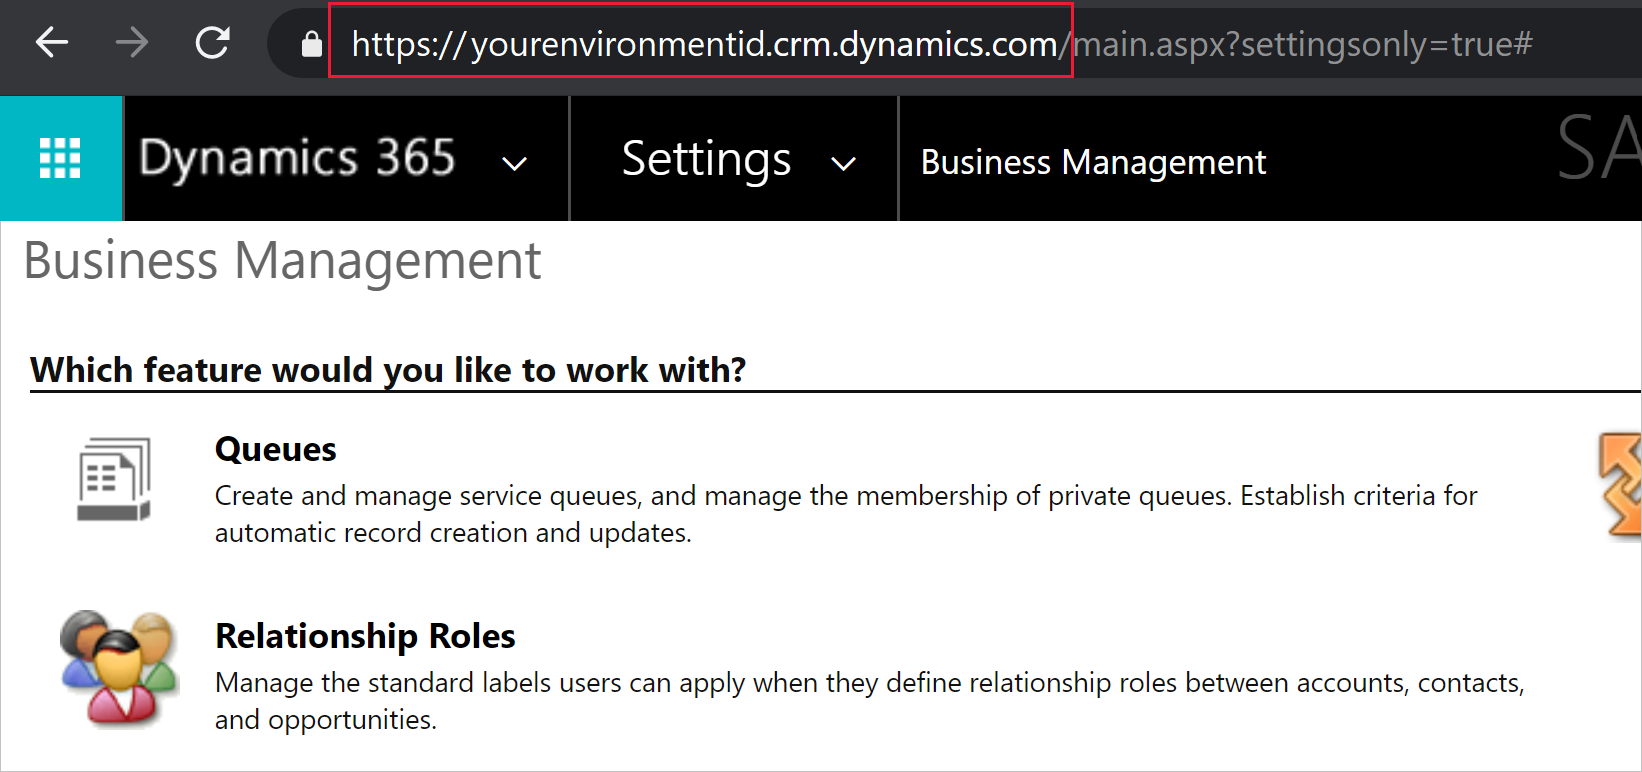
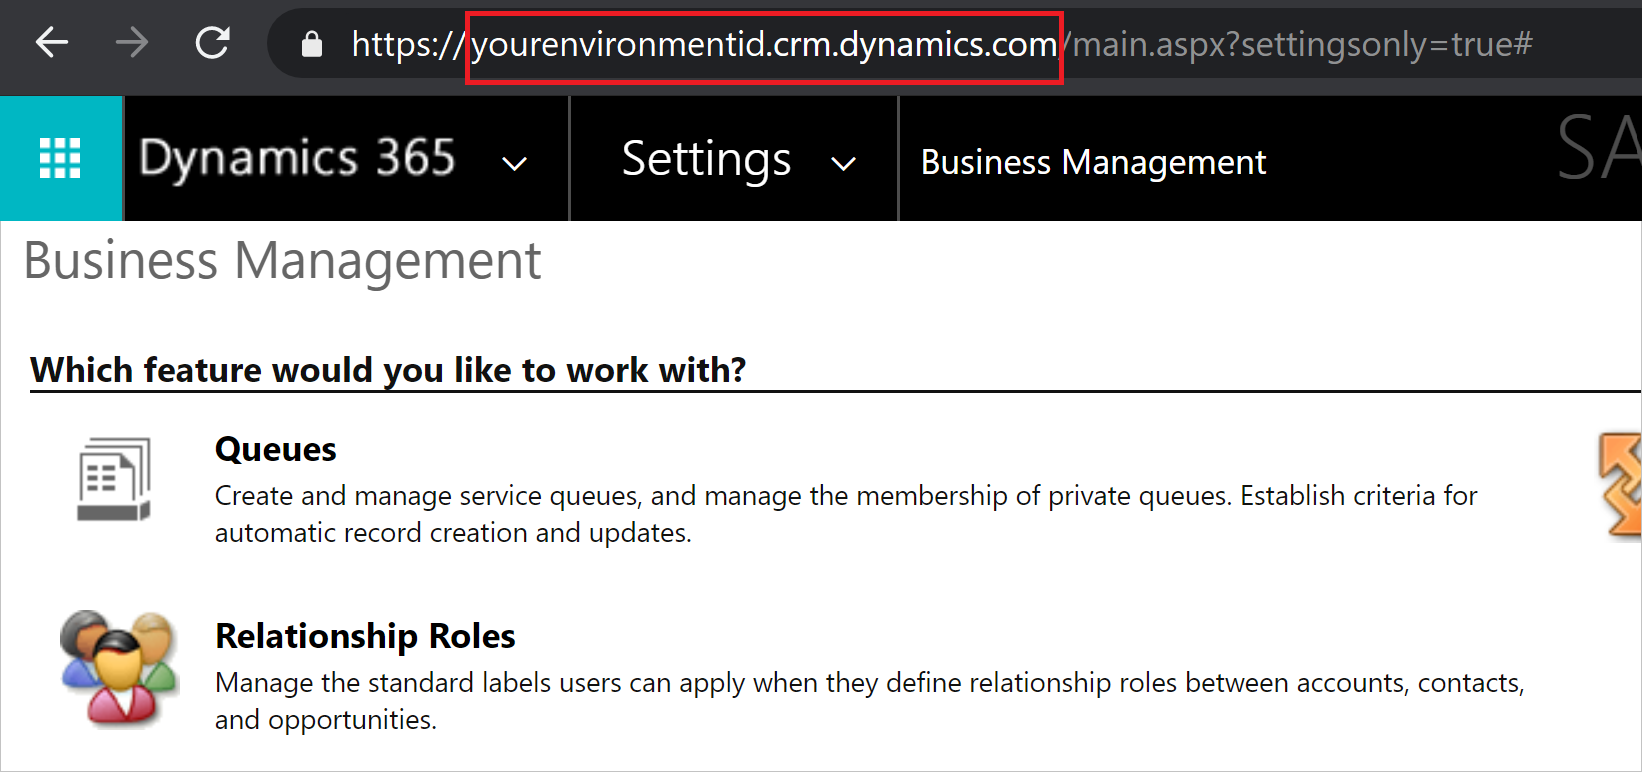
Updates to Dataverse connector article

Changed region(s): [[0.1864, 0.0, 0.6523, 0.0311], [0.2174, 0.0933, 0.6523, 0.1244]]

diff --git a/powerquery-docs/Connectors/Dataverse.md b/powerquery-docs/Connectors/Dataverse.md
@@ -24,20 +24,22 @@ LocalizationGroup: reference
 
 You must have a Dataverse environment with maker permissions to access the portal, and read permissions to access data within tables.
 
-You'll also need ports 1433 and 5558 to be open in Dataverse for the connector to successfully establish a connection. For more information, go to [SQL Server connection issue due to closed ports](#sql-server-connection-issue-due-to-closed-ports). 
+To use the Dataverse connector, the **TDS endpoint** setting must be enabled in your environment. More information: [Manage feature settings](/power-platform/admin/settings-features).
+
+To use the Dataverse connector, TCP ports 1433 and/or 5558 need to be open to connect. If only port 5558 is enabled, you must append that port number to the Dataverse environment URL, such as *yourenvironmentid.crm.dynamics.com:5558*. More information: [SQL Server connection issue due to closed ports](#sql-server-connection-issue-due-to-closed-ports)
 
 ## Capabilities supported
 
 * Server URL
 * Advanced
-   * Reorder columns
-   * Add display column
+  * Reorder columns
+  * Add display column
 
-## Finding your Dataverse Environment URL
+## Finding your Dataverse environment URL
 
 Open [Power Apps](https://make.powerapps.com/?utm_source=padocs&utm_medium=linkinadoc&utm_campaign=referralsfromdoc). In the upper right of the Power Apps page, select the environment you're going to connect to. Select the ![Settings icon.](media/common-data-service/settings-icon.png) settings icon, and then select **Advanced settings**.
 
-In the new browser tab that opens, copy the root of the URL. This root URL is the unique URL for your environment. The URL will be in the format of https://\<*yourenvironmentid*>.crm.dynamics.com/. Make sure not to copy the rest of the URL. Keep this URL somewhere handy so you can use it later, for example, when you create Power BI reports.
+In the new browser tab that opens, copy the root of the URL. This root URL is the unique URL for your environment. The URL will be in the format of https://\<*yourenvironmentid*>.crm.dynamics.com/. **Make sure you remove https:// and the trailing / from the URL before pasting it to connect to your environment.** Keep this URL somewhere handy so you can use it later, for example, when you create Power BI reports.
 
 ![Location of the Dataverse environment URL.](media/common-data-service/cds-env.png)
 
@@ -54,21 +56,22 @@ To connect to Dataverse from Power BI Desktop:
 
    ![Get data in Power BI Desktop.](media/common-data-service/get-data.png)
 
-3. Enter the server URL address of the data you want to load.
+3. Enter the Dataverse environment URL of the data you want to load. Use the format *\<yourenvironmentid>.crm.dynamics.com*. Be sure to remove the `https://` prefix and `/` suffix from the URL before entering the name in **Environment domain**. More information: [Finding your Dataverse environment URL](#finding-your-dataverse-environment-url)
 
    ![Server URL selection.](media/common-data-service/enter-url.png)
 
-   When the table is loaded in the Navigator dialog box, by default the columns in the table are reordered in alphabetical order by the column names. If you don't want the columns reordered, in the advanced settings enter **false** in **Reorder columns**.
+4. Select one of the following Data Connectivity mode options:
 
-   Also when the table is loaded, by default if the table contains any picklist fields, a new column with the name of the picklist field with **_display** appended at the end of the name is added to the table. If you don't want the picklist field display column added, in the advanced settings enter **false** in **Add display column**.
+   * **Import**: We recommend that you import data to Power BI wherever possible. With this mode, data is cached in the Power BI service and imported on a scheduled interval.
+   * **DirectQuery**: Connects directly to the data in Dataverse. Use this mode for real-time data retrieval. This mode can also more strictly enforce the Dataverse security model. More information: DirectQuery model guidance in Power BI Desktop.
 
    When you've finished filling in the information, select **OK**.
 
-4. If this attempt is the first time you're connecting to this site, select **Sign in** and input your credentials. Then select **Connect**.
+5. If this attempt is the first time you're connecting to this site, select **Sign in** and input your credentials. Then select **Connect**.
 
    ![Sign in to this site.](media/common-data-service/sign-in.png)
 
-5. In **Navigator**, select the data you require, then either load or transform the data.
+6. In **Navigator**, select the data you require, then either load or transform the data.
 
    ![Load or transform from navigator.](media/common-data-service/navigator.png)
 
@@ -93,6 +96,18 @@ To connect to Dataverse from Power Query Online:
 6. In the navigation page, select the data you require, and then select **Transform Data**.
 
 ## Limitations and issues
+
+### When to use the Common Data Service (Legacy) connector
+
+Dataverse is the direct replacement for the Common Data Service connector. However, there may be times when it's necessary to choose the Common Data Service (Legacy) connector instead of the Dataverse connector:
+
+* If you are connecting to data using Power Apps, you'll still have to use the Common Data Service (Legacy) connector.
+* If you are accessing large datasets that are greater than 80 MB.
+* If you want paging of the query results and and want to build reports that use the image data type.
+
+In addition, there are certain Tabular Data Stream (TDS) data types that are supported in OData when using Common Data Service (Legacy) that aren't supported in Dataverse. The supported and unsupported data types are listed in [How Dataverse SQL differs from Transact-SQL (Preview)](/powerapps/developer/data-platform/how-dataverse-sql-differs-from-transact-sql?tabs=supported).
+
+All of these feature will be added to the Dataverse connector in the future, at which time the Common Data Service (Legacy) connector will be deprecated.
 
 ### Dataverse OData API performance and throttling limits
 
